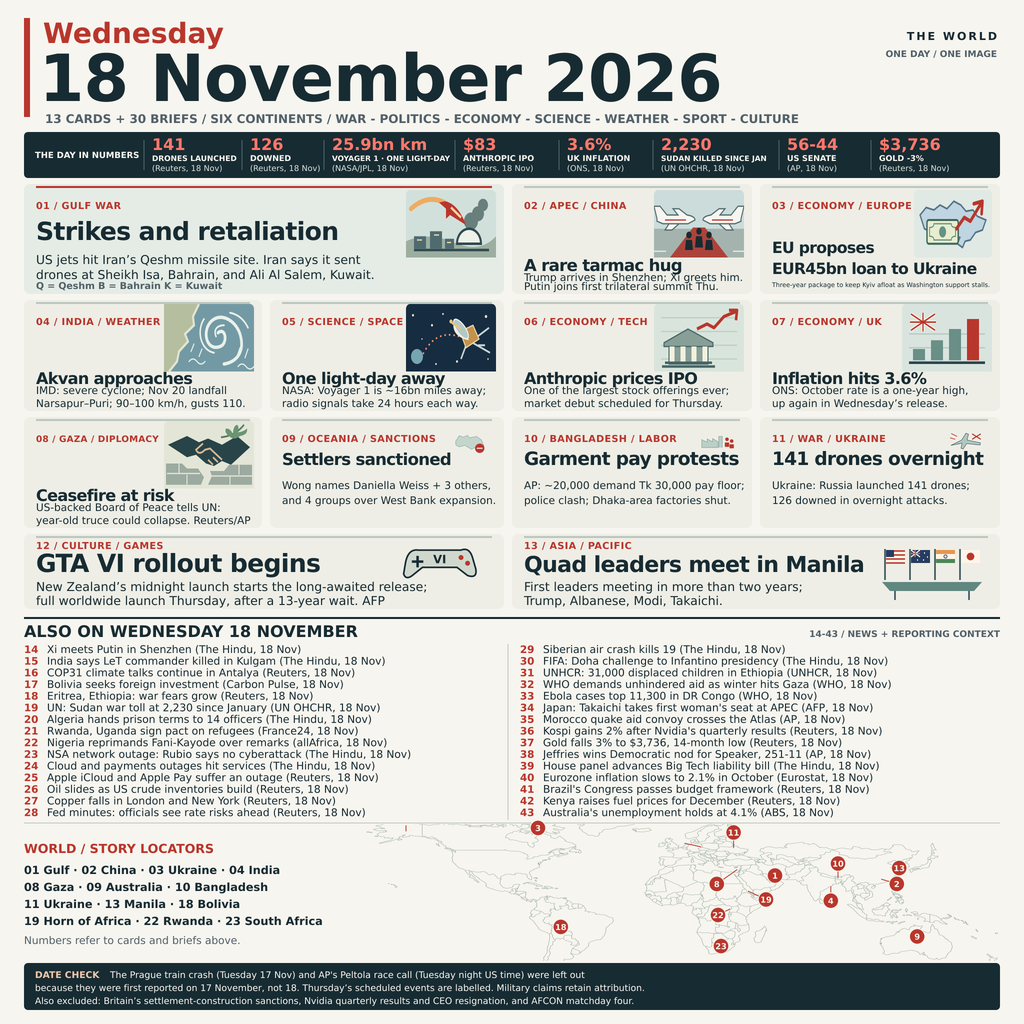
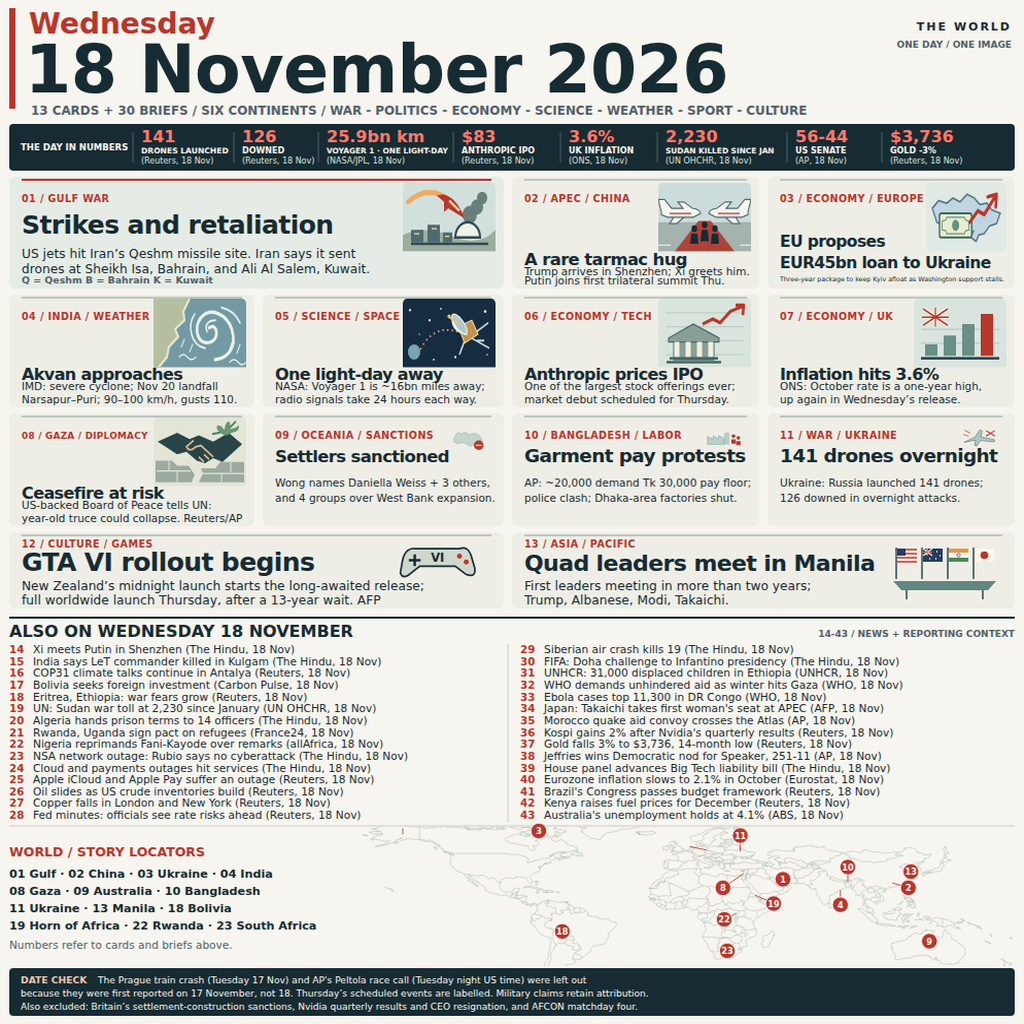
Chromium render pipeline (fit.py/render.sh/main.ts authored), verify.py QA script, README rewrite

diff --git a/main.ts b/main.ts
@@ -1,13 +1,8 @@
-import { copyFile, mkdir, stat } from "node:fs/promises";
-import { spawnSync } from "node:child_process";
-import { fileURLToPath } from "node:url";
+import { createHash } from 'node:crypto';
+import { readFileSync } from 'node:fs';
 
-const root = fileURLToPath(new URL(".", import.meta.url));
-const source = fileURLToPath(new URL("entry.png", import.meta.url));
-const result = spawnSync("sh", [root + "render.sh", source], { stdio: "inherit" });
-if (result.status !== 0) throw new Error("Rendering or text audit failed");
-await mkdir("/output", { recursive: true });
-await copyFile(source, "/output/entry.png");
-const { size } = await stat("/output/entry.png");
-if (size >= 1_048_576) throw new Error("PNG exceeds bounty byte limit");
-console.log(`Ready: /output/entry.png (1024×1024, ${size} bytes)`);
+const png = readFileSync(new URL('./entry.png', import.meta.url));
+console.log(JSON.stringify({
+  bytes: png.byteLength,
+  sha256: createHash('sha256').update(png).digest('hex'),
+}));

diff --git a/fit.py b/fit.py
@@ -1,115 +1,40 @@
-"""Render cand.html's inline SVG with librsvg and verify text using Pillow."""
-from pathlib import Path
-import ctypes as C
-import ctypes.util
+#!/usr/bin/env python3
+"""Render cand.html and fit its content to a square PNG."""
 import json
+from pathlib import Path
+import subprocess
 import sys
-import xml.etree.ElementTree as ET
-from PIL import Image, ImageFont
+from PIL import Image, ImageChops
 
 ROOT = Path(__file__).resolve().parent
-FONTS = Path("/usr/share/fonts/truetype/dejavu")
-NS = {"s": "http://www.w3.org/2000/svg"}
-
-
-def artwork():
-    html = (ROOT / "cand.html").read_text(encoding="utf-8")
-    return html[html.index("<svg "):html.rindex("</svg>") + 6]
-
-
-def text_width(node):
-    value = "".join(node.itertext())
-    size = float(node.get("font-size", "13"))
-    face = "DejaVuSans-Bold.ttf" if int(node.get("font-weight", "400")) >= 600 else "DejaVuSans.ttf"
-    font = ImageFont.truetype(str(FONTS / face), round(size * 10))
-    width = font.getlength(value) / 10
-    if node.get("class") == "h":
-        width -= max(0, len(value) - 1) * .6
-    return width
-
-
-def audit(svg):
-    root = ET.fromstring(svg)
-    issues = []
-    nodes = root.findall(".//s:text", NS)
-    for node in nodes:
-        value = "".join(node.itertext())
-        x = float(node.get("x", "0"))
-        width = text_width(node)
-        right = x if node.get("text-anchor") == "end" else x + width
-        if x > 100 and right > 1002:
-            issues.append(f"page edge: {value}")
-        if "\ufffd" in value:
-            issues.append(f"replacement character: {value}")
-    cards = [g for g in root.findall("s:g", NS) if g.get("id", "").startswith("card-")]
-    for card in cards:
-        box = card.find("s:rect", NS)
-        x, y = float(box.get("x")), float(box.get("y"))
-        w, h = float(box.get("width")), float(box.get("height"))
-        for node in card.findall("s:text", NS):
-            value = "".join(node.itertext())
-            if float(node.get("x")) + text_width(node) > x + w - 8:
-                issues.append(f"{card.get('id')} overflow: {value}")
-            if float(node.get("y")) > y + h - 4:
-                issues.append(f"{card.get('id')} bottom overflow: {value}")
-    return {"cards": len(cards), "briefs": 26, "svg_text_nodes": len(nodes),
-            "content_bottom": 1010, "issues": issues}
-
-
-def native_render(svg, target):
-    rsvg = C.CDLL(ctypes.util.find_library("rsvg-2"))
-    cairo = C.CDLL(ctypes.util.find_library("cairo"))
-    obj = C.CDLL(ctypes.util.find_library("gobject-2.0"))
-    rsvg.rsvg_handle_new_from_data.argtypes = [C.c_void_p, C.c_size_t, C.c_void_p]
-    rsvg.rsvg_handle_new_from_data.restype = C.c_void_p
-    rsvg.rsvg_handle_render_cairo.argtypes = [C.c_void_p, C.c_void_p]
-    rsvg.rsvg_handle_render_cairo.restype = C.c_int
-    cairo.cairo_image_surface_create.argtypes = [C.c_int, C.c_int, C.c_int]
-    cairo.cairo_image_surface_create.restype = C.c_void_p
-    cairo.cairo_create.argtypes = [C.c_void_p]
-    cairo.cairo_create.restype = C.c_void_p
-    cairo.cairo_scale.argtypes = [C.c_void_p, C.c_double, C.c_double]
-    cairo.cairo_surface_write_to_png.argtypes = [C.c_void_p, C.c_char_p]
-    cairo.cairo_surface_write_to_png.restype = C.c_int
-    cairo.cairo_destroy.argtypes = [C.c_void_p]
-    cairo.cairo_surface_destroy.argtypes = [C.c_void_p]
-    obj.g_object_unref.argtypes = [C.c_void_p]
-    payload = svg.encode("utf-8")
-    handle = rsvg.rsvg_handle_new_from_data(payload, len(payload), None)
-    if not handle:
-        raise RuntimeError("librsvg could not parse artboard")
-    surface = cairo.cairo_image_surface_create(0, 2048, 2048)
-    context = cairo.cairo_create(surface)
-    cairo.cairo_scale(context, 2, 2)
-    if not rsvg.rsvg_handle_render_cairo(handle, context):
-        raise RuntimeError("SVG render failed")
-    capture = ROOT / "capture.png"
-    if cairo.cairo_surface_write_to_png(surface, str(capture).encode()):
-        raise RuntimeError("Cairo PNG write failed")
-    cairo.cairo_destroy(context)
-    cairo.cairo_surface_destroy(surface)
-    obj.g_object_unref(handle)
-    image = Image.open(capture).convert("RGB").resize((1024, 1024), Image.Resampling.LANCZOS)
-    image.save(target, "PNG", optimize=True)
-    if target.stat().st_size >= 1048576:
-        image.quantize(colors=240).save(target, "PNG", optimize=True)
-
+BACKGROUND = (247, 245, 239)
+CROP_TOLERANCE = 8
+CROP_MARGIN = 8
 
 def main():
-    target = Path(sys.argv[1]) if len(sys.argv) > 1 else ROOT / "entry.png"
-    target.parent.mkdir(parents=True, exist_ok=True)
-    svg = artwork()
-    report = audit(svg)
-    native_render(svg, target)
-    im = Image.open(target)
-    report.update(size=list(im.size), bytes=target.stat().st_size)
-    assert im.size == (1024, 1024)
-    assert target.stat().st_size < 1048576
-    im.resize((300, 300), Image.Resampling.LANCZOS).save(ROOT / "preview-300.png")
-    print(json.dumps(report, ensure_ascii=False, indent=2))
-    if report["issues"]:
-        raise SystemExit("Text extent audit needs attention")
+    output = (Path(sys.argv[1]) if len(sys.argv) > 1 else ROOT / 'entry.png').resolve()
+    subprocess.run([
+        '/root/.cache/ms-playwright/chromium-1208/chrome-linux64/chrome',
+        '--headless=new', '--no-sandbox', '--disable-gpu', '--hide-scrollbars',
+        '--screenshot=full.png', '--window-size=1024,1300',
+        (ROOT / 'cand.html').as_uri(),
+    ], cwd=ROOT, check=True, stdout=subprocess.PIPE, stderr=subprocess.PIPE)
+    with Image.open(ROOT / 'full.png') as source:
+        image = source.convert('RGB')
+    difference = ImageChops.difference(image, Image.new('RGB', image.size, BACKGROUND))
+    red, green, blue = difference.split()
+    mask = ImageChops.lighter(ImageChops.lighter(red, green), blue)
+    mask = mask.point(lambda value: 255 if value > CROP_TOLERANCE else 0)
+    bounds = mask.getbbox()
+    if bounds:
+        left, top, right, bottom = bounds
+        image = image.crop((max(0, left - CROP_MARGIN), max(0, top - CROP_MARGIN),
+                            min(image.width, right + CROP_MARGIN),
+                            min(image.height, bottom + CROP_MARGIN)))
+    image = image.resize((1024, 1024), Image.Resampling.LANCZOS)
+    image.save(output, format='PNG')
+    print(json.dumps({'output': str(output), 'size': list(image.size),
+                      'bytes': output.stat().st_size}))
 
-
-if __name__ == "__main__":
+if __name__ == '__main__':
     main()

diff --git a/scripts/verify.py b/scripts/verify.py
@@ -1,0 +1,132 @@
+"""Check the news atlas in cand.html. Text metrics require Pillow and DejaVu Sans."""
+
+import json
+import re
+from functools import lru_cache
+from pathlib import Path
+from xml.etree import ElementTree as ET
+
+
+SVG = "{http://www.w3.org/2000/svg}"
+TEXT = SVG + "text"
+SOURCE_TAG = re.compile(r"\([^()]*\bNov[^()]*\)\Z")
+STAT_VALUE = re.compile(r"[$€£]?\d[\d,.]*(?:-\d+)?(?:%|[A-Za-z]+(?: [A-Za-z]+)?)?")
+METRIC_SCALE = 32
+
+
+def content(node):
+    return " ".join("".join(node.itertext()).split())
+
+
+def check_cards(svg, issues):
+    groups = [
+        group for group in svg.iter(SVG + "g")
+        if re.fullmatch(r"card-\d+", group.get("id", ""))
+    ]
+    count = 0
+    for group in groups:
+        labels = group.findall(TEXT)
+        # Each card starts with a numbered topic label followed by its headline.
+        if (len(labels) >= 2 and re.match(r"\d+ / ", content(labels[0]))
+                and content(labels[1])):
+            count += 1
+        else:
+            issues.append(f"{group.get('id')} has no title")
+    if count != 13:
+        issues.append(f"Expected 13 card titles, found {count}")
+    return count
+
+
+def check_briefs(svg, issues):
+    labels = svg.findall(TEXT)
+    start = next((i for i, node in enumerate(labels)
+                  if content(node).startswith("ALSO ON ")), None)
+    end = next((i for i, node in enumerate(labels)
+                if content(node).startswith("WORLD / STORY LOCATORS")), None)
+    if start is None or end is None or end <= start:
+        issues.append("Could not locate the ALSO list")
+        return 0
+
+    rows = labels[start + 1:end]
+    if rows and re.match(r"\d+-\d+ / ", content(rows[0])):
+        rows = rows[1:]
+    numbers = []
+    for i in range(0, len(rows), 2):
+        number = content(rows[i])
+        numbers.append(int(number) if re.fullmatch(r"[0-9]+", number) else number)
+        if i + 1 == len(rows) or rows[i].get("y") != rows[i + 1].get("y"):
+            issues.append(f"Brief {number!r} has no matching text on its row")
+        elif not SOURCE_TAG.search(content(rows[i + 1])):
+            issues.append(f"Brief {number!r} is missing a final source tag containing Nov")
+    if numbers != list(range(14, 44)):
+        issues.append(f"Expected consecutive brief numbers 14–43, found {numbers}")
+    return len(numbers)
+
+
+def check_band(svg, issues):
+    band = svg.find(f".//{SVG}g[@id='stat-band']")
+    count = 0 if band is None else sum(
+        bool(STAT_VALUE.fullmatch(content(node))) for node in band.iter(TEXT)
+    )
+    if count != 8:
+        issues.append(f"Expected 8 stat numbers, found {count}")
+    return count
+
+
+@lru_cache(maxsize=None)
+def font_for(size, bold):
+    from PIL import ImageFont
+
+    name = "DejaVuSans-Bold.ttf" if bold else "DejaVuSans.ttf"
+    return ImageFont.truetype(name, round(size * METRIC_SCALE))
+
+
+def check_bounds(svg, issues):
+    for node in svg.iter(TEXT):
+        label = content(node)
+        size = float(node.get("font-size", "16"))
+        if size <= 9 or not label:
+            continue
+        x, y = float(node.get("x", "0")), float(node.get("y", "0"))
+        font = font_for(size, int(node.get("font-weight", "400")) >= 600)
+        spacing = float(node.get("letter-spacing", "-.6" if "h" in
+                                 node.get("class", "").split() else "0"))
+        gaps = spacing * (len(label) - 1)
+        advance = font.getlength(label) / METRIC_SCALE + gaps
+        anchor = node.get("text-anchor", "start")
+        origin = x - advance * {"start": 0, "middle": 0.5, "end": 1}[anchor]
+        left, top, right, bottom = (
+            value / METRIC_SCALE for value in font.getbbox(label, anchor="ls")
+        )
+        right += origin + gaps
+        left += origin
+        top += y
+        bottom += y
+        if not (x >= 24 and left >= 24 and right <= 1000 and 20 <= top <= bottom <= 1010):
+            issues.append(
+                f"Text {label!r} is out of bounds "
+                f"(x={x:g}, left={left:.2f}, right={right:.2f}, "
+                f"top={top:.2f}, bottom={bottom:.2f})"
+            )
+
+
+def main():
+    report = {"cards": 0, "briefs": 0, "band_stats": 0, "issues": []}
+    issues = report["issues"]
+    try:
+        html = (Path(__file__).resolve().parents[1] / "cand.html").read_text(encoding="utf-8")
+        start = html.index("<svg")
+        end = html.rindex("</svg>") + len("</svg>")
+        svg = ET.fromstring(html[start:end])
+        report["cards"] = check_cards(svg, issues)
+        report["briefs"] = check_briefs(svg, issues)
+        report["band_stats"] = check_band(svg, issues)
+        check_bounds(svg, issues)
+    except (ET.ParseError, ImportError, KeyError, OSError, ValueError) as error:
+        issues.append(f"Could not complete verification: {error}")
+    print(json.dumps(report, ensure_ascii=False))
+    return int(bool(issues))
+
+
+if __name__ == "__main__":
+    raise SystemExit(main())

diff --git a/README.md b/README.md
@@ -1,11 +1,13 @@
-# 18 November 2026 — A day in the world
+[![make.fun](https://make.fun/badge/news-image-20261118.svg)](https://make.fun/bounty/news-image-20261118)
+[![rank](https://make.fun/badge/news-image-20261118/rank.svg)](https://make.fun/bounty/news-image-20261118)
+[![reward](https://make.fun/badge/news-image-20261118/reward.svg)](https://make.fun/bounty/news-image-20261118)
 
-[![make.fun · news-image-20261118](https://make.fun/badge/news-image-20261118.svg)](https://make.fun/bounty/news-image-20261118?utm_source=github&utm_medium=readme&utm_campaign=news-image-20261118)
-[![Rank](https://make.fun/badge/news-image-20261118/Ajihashpangestu/Biawak-newsimg/rank.svg)](https://make.fun/bounty/news-image-20261118?utm_source=github&utm_medium=readme&utm_campaign=news-image-20261118)
-[![Reward](https://make.fun/badge/news-image-20261118/Ajihashpangestu/Biawak-newsimg/reward.svg)](https://make.fun/bounty/news-image-20261118?utm_source=github&utm_medium=readme&utm_campaign=news-image-20261118)
+# World news — Wednesday 18 November 2026
 
-This date-first world news front page packs Wednesday, 18 November 2026 into a single 1024 × 1024 image. It brings together 13 illustrated news cards and 30 briefs. The THE DAY IN NUMBERS band highlights key figures, a pinned world map locates selected stories, and the date-check footer lists items excluded from the edition.
+A one-image world news front page with a date-first giant title and a **THE DAY IN NUMBERS** band containing 8 sourced stats. It features 13 illustrated cards, 30 numbered briefs (14–43), a world map with numbered pins, and story locators.
 
-Run `bash render.sh` to regenerate `entry.png` from the inline SVG in `cand.html`. Run `node main.ts` with a Node version that supports TypeScript to render the image, copy it to `/output/entry.png`, and check the submission size.
+The **DATE CHECK** footer lists stories excluded because they were first reported on 17 November: the Prague train crash and AP's Peltola race call.
 
-The original layout and illustrations are covered by the MIT license. The map outline is derived from Natural Earth.
+Everything is rendered from `cand.html` via headless Chromium. Run `bash render.sh` to regenerate `entry.png`. The renderer captures a 1024×1300 viewport, crops content against the background with a small margin, and resizes with LANCZOS to exactly 1024×1024.
+
+`fit.py` accepts an optional output path (default `entry.png`) and prints dimensions and byte size as JSON. `main.ts` is a Node 22 TypeScript entrypoint that reads `entry.png` in the repository root and prints its byte size and SHA-256 hash as JSON.
